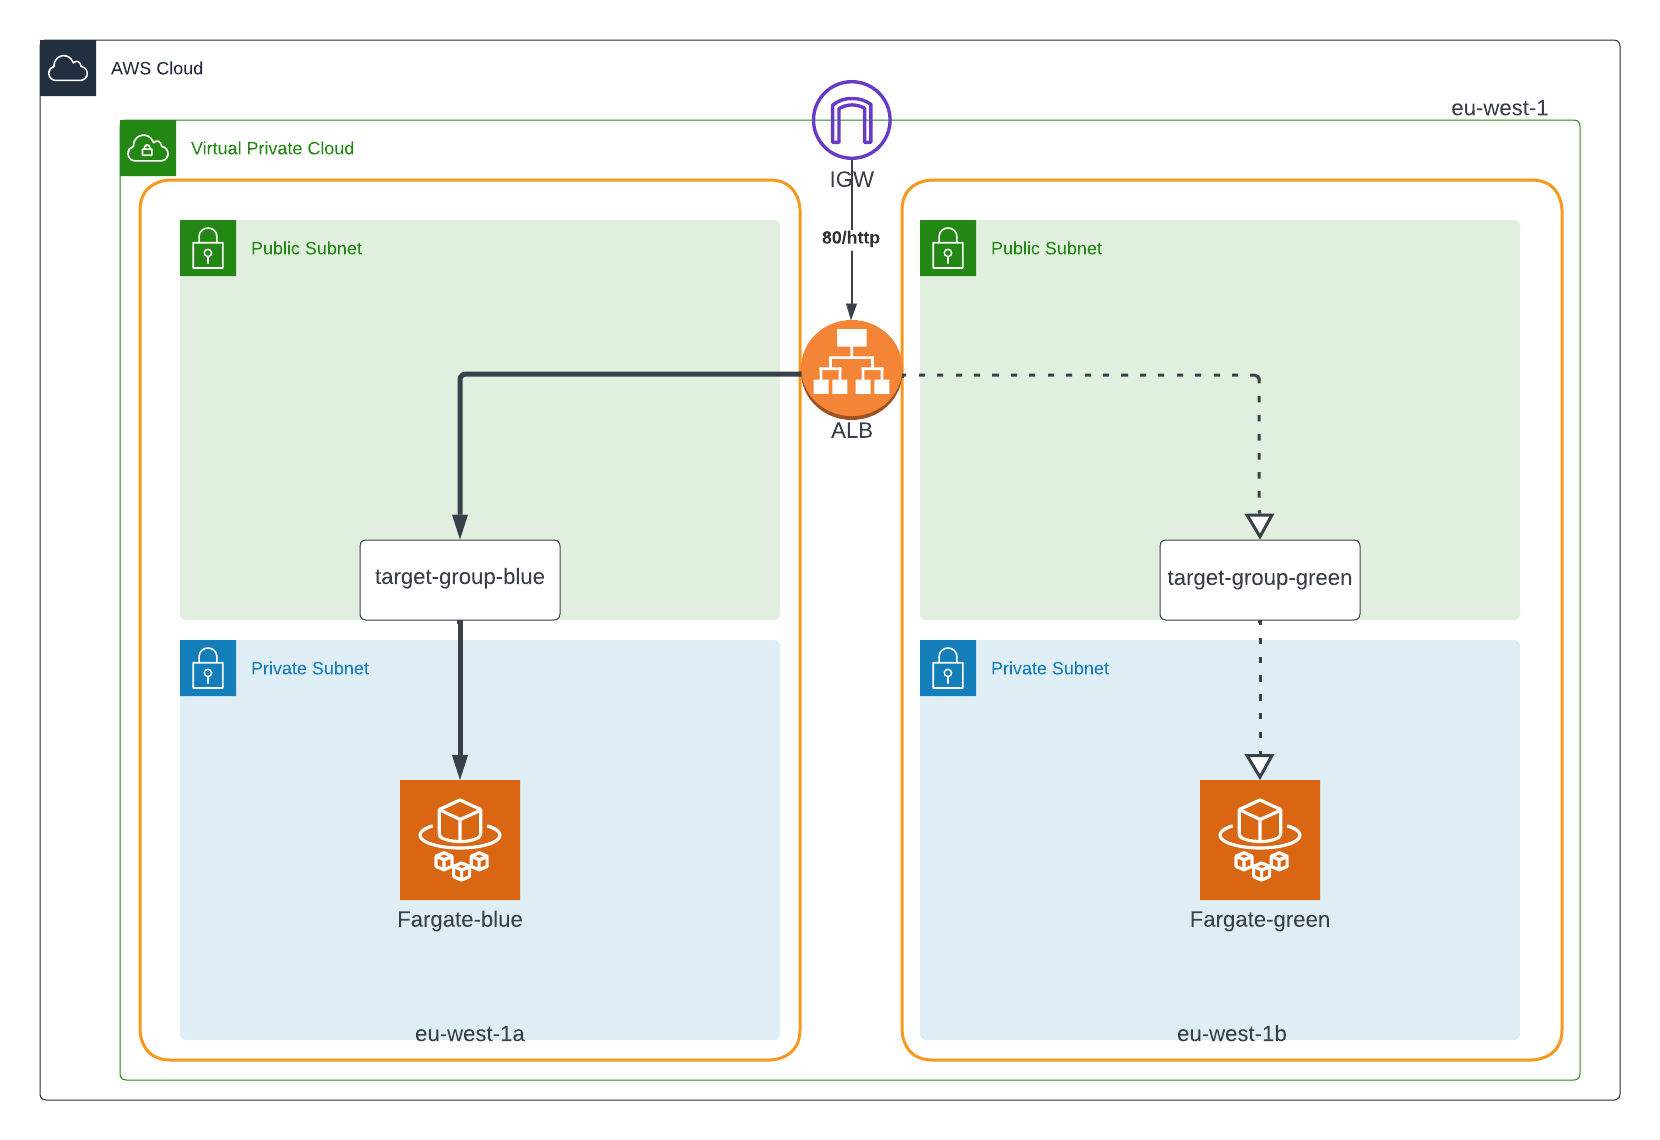
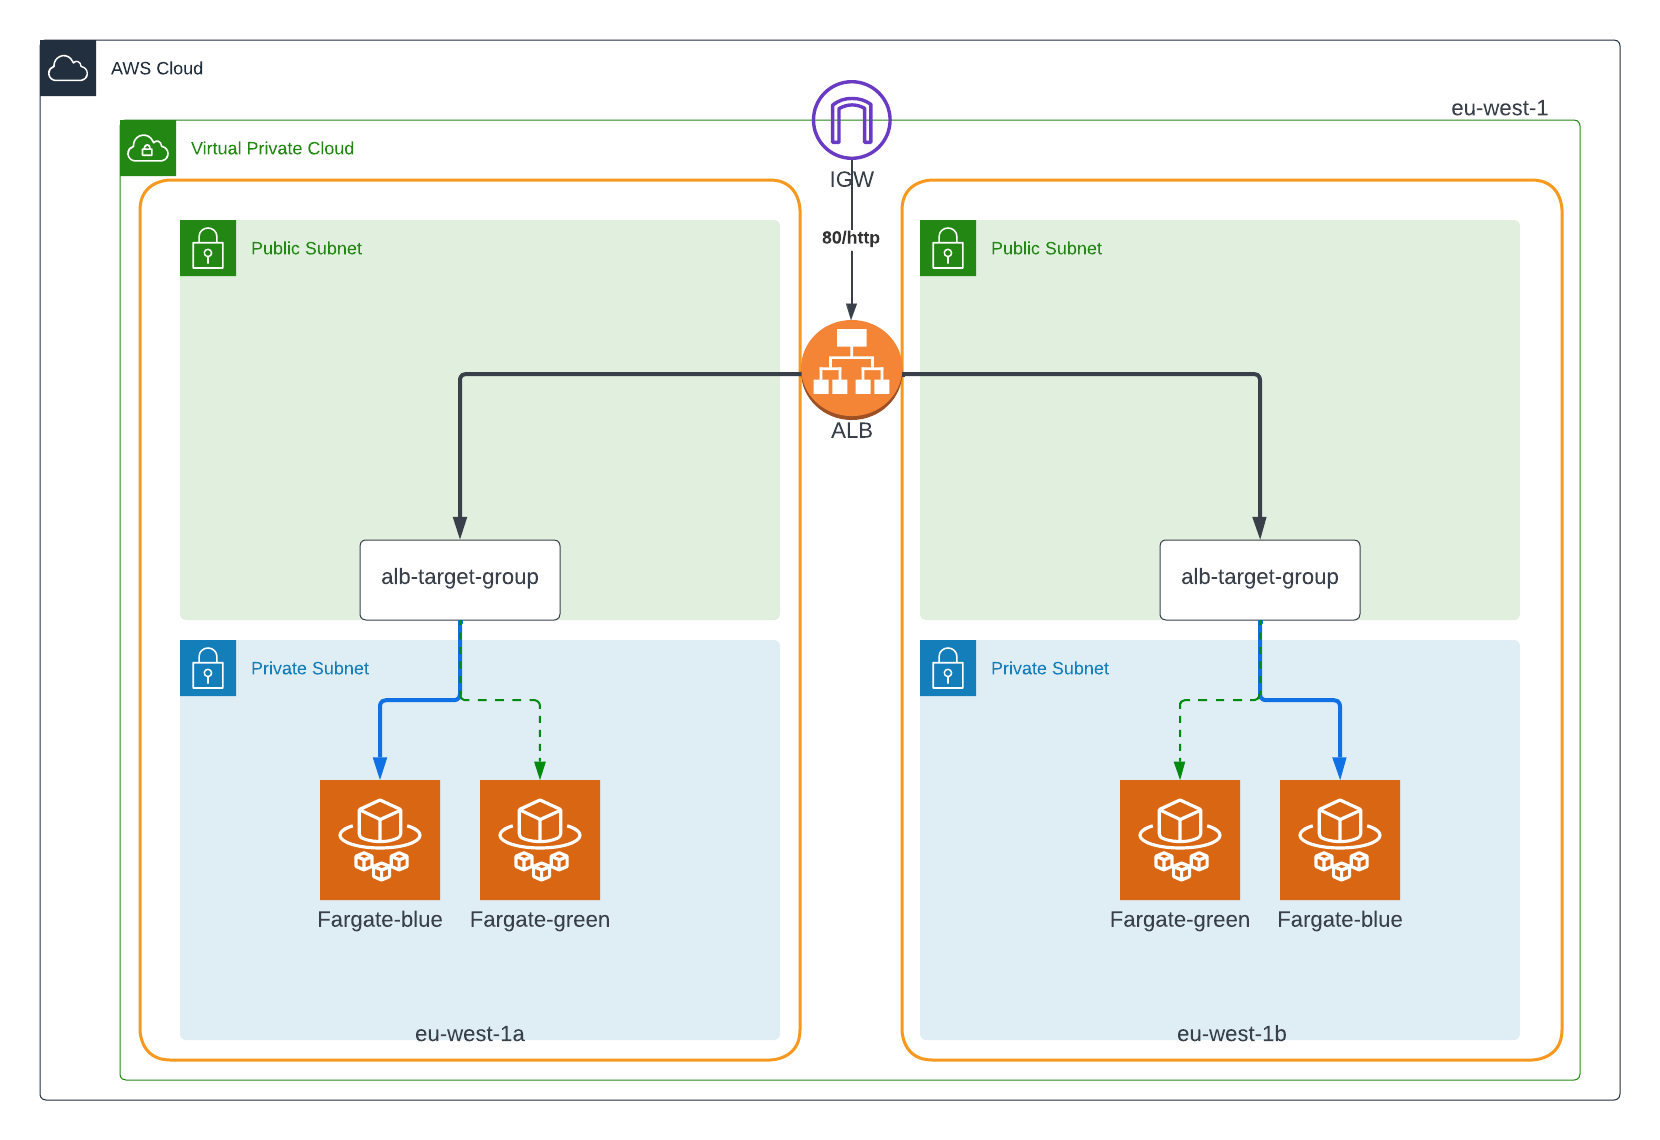
Added README file and AWS Hight level diagram

diff --git a/README.md b/README.md
@@ -96,7 +96,7 @@ We can also choose which resources are created by using a toggle at the module l
 ```
 module "green" {
   source                = "./modules/green"
-  count                 = var.is_green ? 1 : 0 # When is_green is true the count=1 and resource is created, when 0 resource is destroyed
+  count                 = var.is_green ? 1 : 0 # When "is_green" is true the count=1 and resource is created, when 0 resource is destroyed
   type                  = "green"
   prefix                = var.prefix
   suffix                = random_string.suffix.result
@@ -118,19 +118,22 @@ More information can be found on the Terraform website for [Feature Toggles](htt
 
 #### Project setup
 
-**Prerequisites** : You'll need to create two ECR repositories in AWS, one for the frontend application and the other for the mariaDB backend. This will be needed before running. The Container names have been hard coded into the task definition. 
+**Prerequisites** : You'll need to create two ECR repositories in AWS, one for the frontend application and the other for the mariaDB backend. This will be needed before running. The container names have been hard coded into the task definition. 
 
 
 1. Clone the github repository.
 
 ```
+
 > git clone https://github.com/TheLinuxEnthusiast/ecomm-aws-bluegreen.git
 > cd ecomm-aws-bluegreen/
+
 ```
 
 2. Change into the tf/ directory and initialize the project (Change the bucket name for your project otherwise you can remove the remote backend block).
 
 ```
+
 terraform {
 
   backend "s3" {
@@ -146,23 +149,34 @@ terraform {
     }
   }
 }
+
 ```
 
 ```
+
 > cd tf/
 > terraform init
+
 ```
 
 3. Setup an initial blue application by running
 
 ```
+
 > # Blue deployment
 > cd tf/
 > terraform apply -var-file=variables/development.tfvars -auto-approve
+
+```
+
+4. Create Green env and rebalance traffic 
+
+```
 
 > # Create green environment and flip traffic to 90/10 blue/green
 > terraform apply -var-file=variables/development.tfvars -var is_green="true" -var traffic_distribution="blue-90" -auto-approve
 
 > # Destroy blue environment, green with 100% traffic
 > terraform apply -var-file=variables/development.tfvars -var is_green="true" -var is_blue="false" -var traffic_distribution="green" -auto-approve
+
 ```
